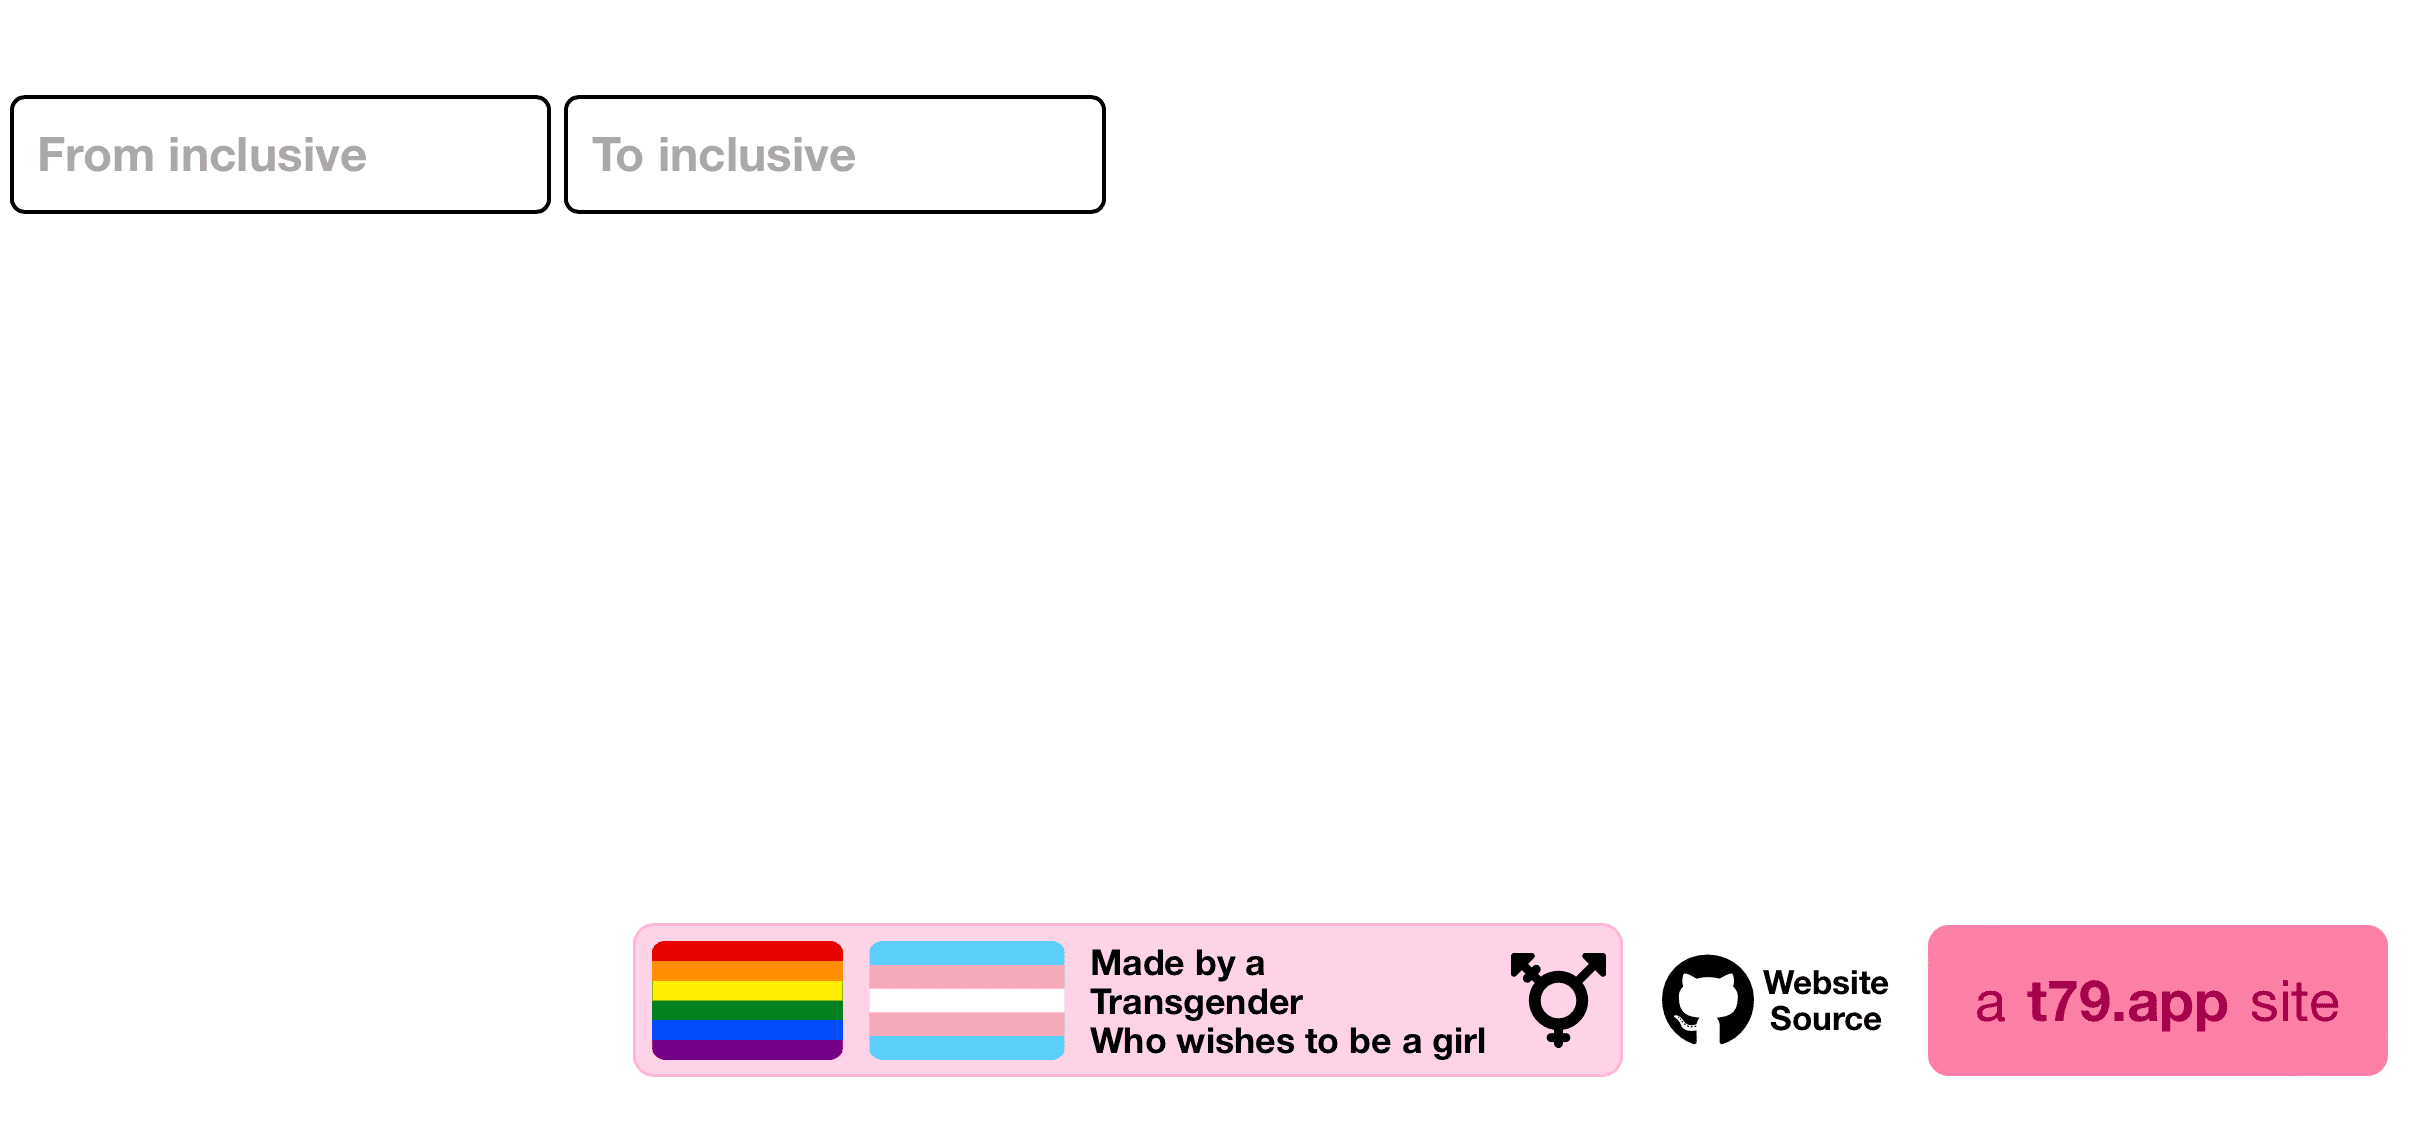
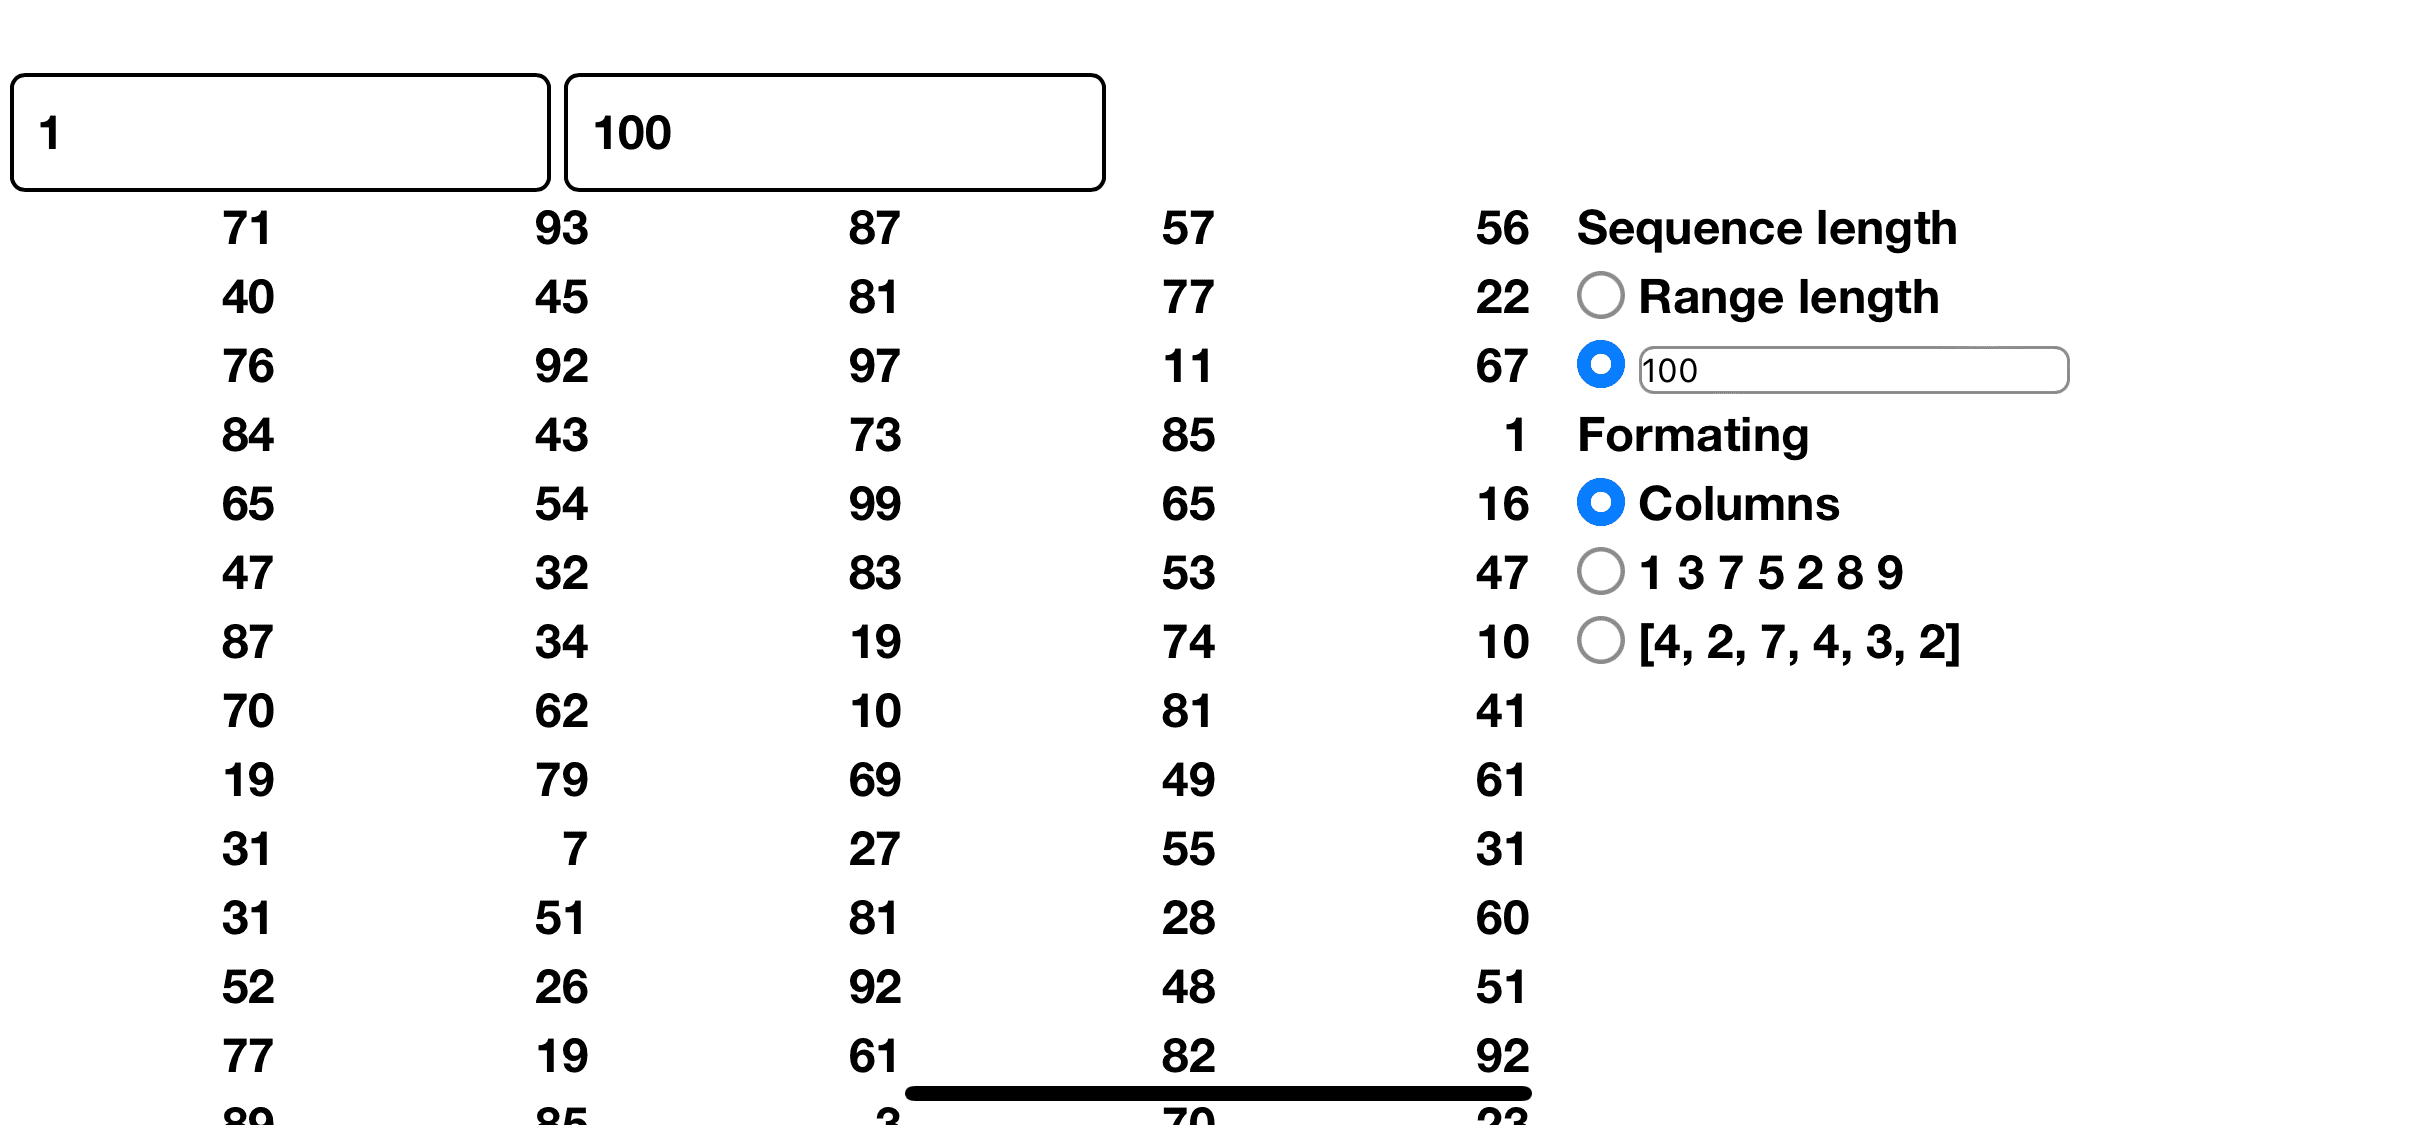
Adding sequence formating options.

diff --git a/random-generator.js b/random-generator.js
@@ -4,13 +4,20 @@ document.addEventListener('readystatechange', function () {
     }
 });
 
-var t79RG = {};
+var t79RG = {
+    Format: {
+        Column: 'column',
+        Normal: 'normal',
+        Array: 'array'
+    }
+};
 
 function initGenerator() {
     getGeneratorInputElements();
     getGeneratorOutputElements();
     getGeneratorSettingsElements();
     setupGeneratorInputElements();
+    setupGeneratorOutputElements();
     setupGeneratorSettingsElements();
 }
 
@@ -39,12 +46,55 @@ function generateRandom(e) {
         t79RG.generatedValues.push(getRandomValue());
     }
 
-    let outputText = "";
-    for (i = 0; i < t79RG.generatedValues.length; i++) {
-        outputText += t79RG.generatedValues[i] + " ";
+    formatGeneratedOutputString();
+
+    t79RG.outputGeneratedResultElm.innerHTML = t79RG.outputString;
+}
+
+function formatGeneratedOutputString() {
+    t79RG.outputString = "";
+    let separator = " ";
+
+    if (t79RG.outputFormat == t79RG.Format.Column) {
+        separator = "<br>";
+    }
+    else if (t79RG.outputFormat == t79RG.Format.Array) {
+        separator = ", ";
+        t79RG.outputString = "["
     }
 
-    t79RG.outputGeneratedResultElm.innerText = outputText;
+    for (i = 0; i < t79RG.generatedValues.length; i++) {
+        t79RG.outputString += t79RG.generatedValues[i];
+        if (i < t79RG.generatedValues.length - 1) {
+            t79RG.outputString += separator;
+        }
+    }
+
+    if (t79RG.outputFormat == t79RG.Format.Array) {
+        t79RG.outputString += "]"
+    }
+}
+
+function changeFormating(e) {
+    if (e == null || e.target == t79RG.settingsSeqFormatColumnRadioElm) {
+        t79RG.outputFormat = t79RG.Format.Column;
+        t79RG.outputGeneratedResultElm.style.columns = 10 + "ch";
+        t79RG.outputGeneratedResultElm.style.textAlign = "right";
+    }
+    else if (e.target == t79RG.settingsSeqFormatNormalRadioElm) {
+        t79RG.outputFormat = t79RG.Format.Normal;
+        t79RG.outputGeneratedResultElm.style.columns = 1;
+        t79RG.outputGeneratedResultElm.style.textAlign = "left";
+    }
+    else if (e.target == t79RG.settingsSeqFormatArrayRadioElm) {
+        t79RG.outputFormat = t79RG.Format.Array;
+        t79RG.outputGeneratedResultElm.style.columns = 1;
+        t79RG.outputGeneratedResultElm.style.textAlign = "left";
+    }
+
+    formatGeneratedOutputString();
+
+    t79RG.outputGeneratedResultElm.innerHTML = t79RG.outputString;
 }
 
 function getRandomValue() {
@@ -65,10 +115,17 @@ function getGeneratorOutputElements() {
     t79RG.outputGeneratedResultElm = document.getElementById("generator-output");
 }
 
+function setupGeneratorOutputElements() {
+    t79RG.generatedValues = [];
+}
+
 function getGeneratorSettingsElements() {
     t79RG.settingsSeqLengthRangeRadioElm = document.getElementById("generator-settings-sequence-length-range");
     t79RG.settingsSeqLengthNumRadioElm = document.getElementById("generator-settings-sequence-length-num");
     t79RG.settingsSeqLengthNumValueElm = document.getElementById("generator-settings-sequence-length-num-input");
+    t79RG.settingsSeqFormatColumnRadioElm = document.getElementById("generator-settings-sequence-format-column");
+    t79RG.settingsSeqFormatNormalRadioElm = document.getElementById("generator-settings-sequence-format-normal");
+    t79RG.settingsSeqFormatArrayRadioElm = document.getElementById("generator-settings-sequence-format-array");
 }
 
 function setupGeneratorSettingsElements() {
@@ -85,5 +142,10 @@ function setupGeneratorSettingsElements() {
         t79RG.settingsSeqLengthNumValueElm.disabled = false;
         generateRandom();
     });
-    t79RG.settingsSeqLengthNumValueElm.addEventListener("input", generateRandom)
+    t79RG.settingsSeqLengthNumValueElm.addEventListener("input", generateRandom);
+    t79RG.settingsSeqFormatColumnRadioElm.checked = true;
+    changeFormating(null);
+    t79RG.settingsSeqFormatColumnRadioElm.addEventListener("input", changeFormating);
+    t79RG.settingsSeqFormatNormalRadioElm.addEventListener("input", changeFormating);
+    t79RG.settingsSeqFormatArrayRadioElm.addEventListener("input", changeFormating);
 }

diff --git a/index.html b/index.html
@@ -25,6 +25,7 @@
         <div id="generator-output"></div>
 
         <div id="generator-settings">
+
             <div id="generator-settings-sequence-length">
                 <div id="generstor-settings-sequence-length-header">
                     Sequence length
@@ -37,6 +38,26 @@
                     <div>
                         <input type="radio" id="generator-settings-sequence-length-num" name="quantity">
                         <input type="number" id="generator-settings-sequence-length-num-input">
+                    </div>
+                </fieldset>
+            </div>
+
+            <div id="generator-settings-sequence-format">
+                <div id="generator-settings-sequence-format-header">
+                    Formating
+                </div>
+                <fieldset id="generator-settings-sequence-format-options">
+                    <div>
+                        <input type="radio" id="generator-settings-sequence-format-column" name="format">
+                        <label for="generator-settings-sequence-format-column">Columns</label>
+                    </div>
+                    <div>
+                        <input type="radio" id="generator-settings-sequence-format-normal" name="format">
+                        <label for="generator-settings-sequence-format-normal">1 3 7 5 2 8 9</label>
+                    </div>
+                    <div>
+                        <input type="radio" id="generator-settings-sequence-format-array" name="format">
+                        <label for="generator-settings-sequence-format-array">[4, 2, 7, 4, 3, 2]</label>
                     </div>
                 </fieldset>
             </div>
